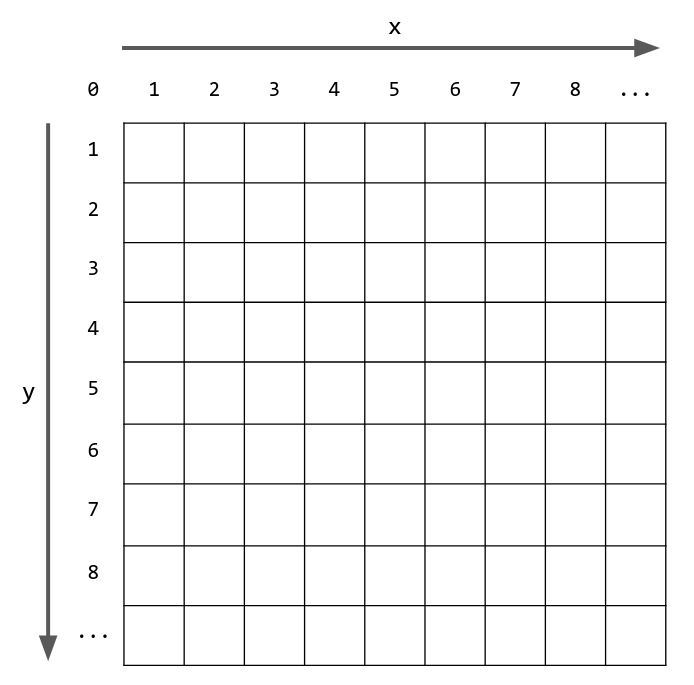
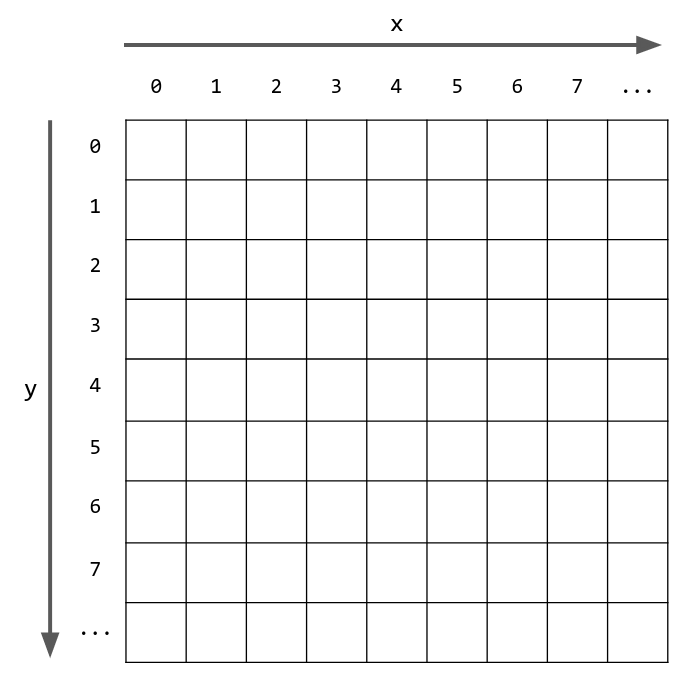
Address PR review

Changed region(s): [[0.1212, 0.0307, 0.9697, 0.981], [0.0303, 0.1839, 0.0909, 0.9504], [0.1212, 0.1226, 0.1515, 0.1533]]

diff --git a/website/docs/snake/intro.md b/website/docs/snake/intro.md
@@ -40,9 +40,9 @@ The dimensions of the grid are specified in the `World` case class:
  - `height` is the number of rows of the grid. We will use of the convention of naming `y` the variables indicating vertical position
  - `width` is the number of columns of the grid. We will use of the convention of naming `x` the variables indicating horizontal position
  - The top left corner of the grid has position `(x=0, y=0)`
- - The top right corner of the grid has position `(x=width, y=0)`
- - The bottom left corner of the grid has position `(x=0, y=height)`
- - The bottom right corner of the grid has position `(x=width, y=height)`
+ - The top right corner of the grid has position `(x=width-1, y=0)`
+ - The bottom left corner of the grid has position `(x=0, y=height-1)`
+ - The bottom right corner of the grid has position `(x=width-1, y=height-1)`
 
 ![the grid](/img/snake/grid.png)
 
